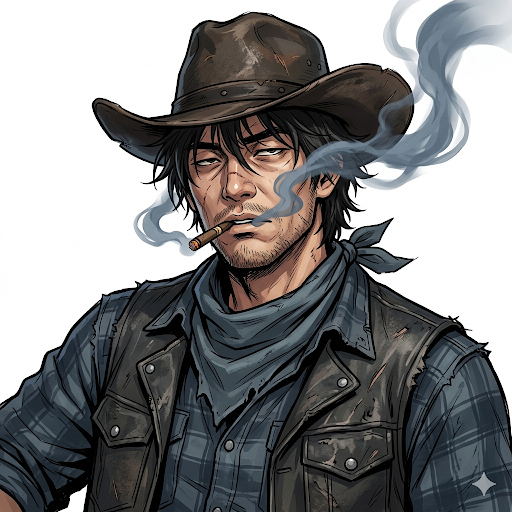
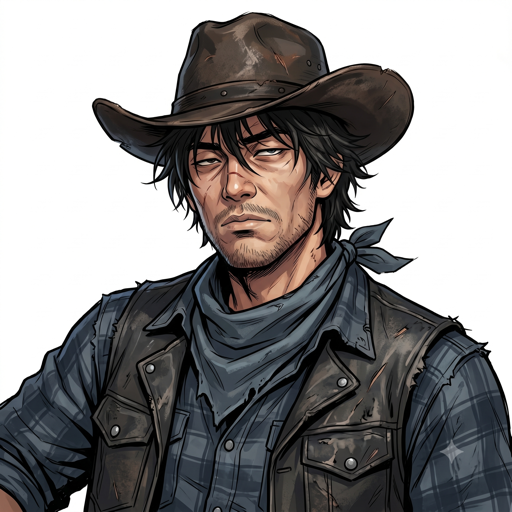
스모커 담배 묘사 제거 — IARC 등급 낮추기
- 스모커 일러스트 교체: 입에 문 담배·연기 제거 (능력 '연막'은 연막탄 컨셉 유지), 512x512 규격 통일
- 시간초과 플레이버 '담배를 말고 있었다' → '커피를 홀짝이고 있었다'
- 담배 묘사 전무 → 콘텐츠 등급 담배 항목 '아니요' 가능(15세→전체/12세)

diff --git a/lib/game/party_logic.dart b/lib/game/party_logic.dart
@@ -79,7 +79,7 @@ const int kTurnSeconds = 20;
 const List<String> kIdleFlavors = [
   '석양을 보고 있었다',
   '멍때리고 있었다',
-  '담배를 말고 있었다',
+  '커피를 홀짝이고 있었다',
   '딴생각에 빠져 있었다',
   '말에게 한눈 팔았다',
   '모자를 고쳐 쓰고 있었다',